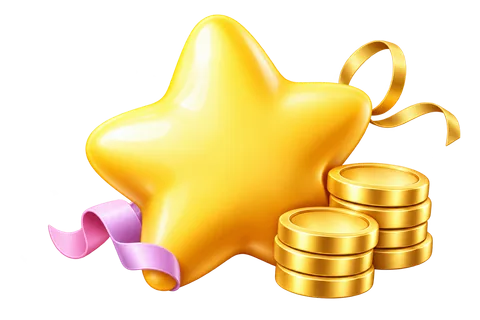
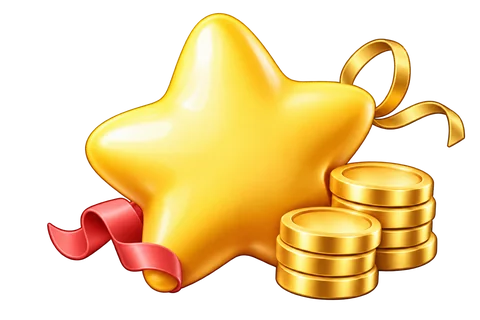
style: use pale red gradient and red reward ribbon

diff --git a/reward-motion-v2/index.html b/reward-motion-v2/index.html
@@ -89,7 +89,7 @@
 .loan-slider{height:16px;position:relative;padding-top:6px}.loan-slider:before{content:'';display:block;height:4px;background:var(--zam-red);border-radius:16px}.loan-slider span{position:absolute;right:0;top:-4px;width:34px;height:24px;border-radius:30px;background:#fff;box-shadow:0 4px 8px #ffe4e4}.loan-slider span:before{content:'';position:absolute;inset:8px 12px;background:repeating-linear-gradient(90deg,var(--zam-red) 0 2px,transparent 2px 4px)}.loan-range{display:flex;justify-content:space-between;margin-top:16px;line-height:18px;font-size:14px;color:var(--zam-muted)}.loan-terms{display:flex;gap:10px;margin-top:24px}.loan-terms>div{flex:1;border:1px solid #c9cdd4;border-radius:2px;text-align:center;font-size:12px;line-height:24px;padding:7px 0;color:var(--zam-muted)}.loan-terms b{font-size:16px}.loan-terms .selected{border-color:var(--zam-red);background:#fdecee;color:var(--zam-red)}
 .loan-divider{height:1px;background:url('assets/cadda.svg') left center/100% 1px no-repeat;margin:23px 0}.loan-breakdown{margin:0;font-size:14px;line-height:18px}.loan-breakdown>div{display:flex;justify-content:space-between;align-items:center;min-height:34px;padding:8px 0;gap:8px}.loan-breakdown dd{margin:0;color:var(--zam-muted);white-space:nowrap}.loan-breakdown b{color:var(--zam-ink)}.mobile-money{display:flex;align-items:center;gap:8px}.mobile-money img{border-radius:3.429px}.applied-coupon{display:flex;align-items:center;justify-content:space-between;padding:8px 16px;font-size:14px;line-height:18px}.applied-coupon[hidden]{display:none}.applied-coupon>span{display:flex;align-items:center;gap:8px}.applied-coupon strong{color:#d35a21}
 .loan-action{padding:16px;background:#fff;border-top:1px solid #f2f3f5;flex-shrink:0}.loan-action>div{padding:12px 10px;border-radius:24px;background:var(--zam-red);color:#fff;font-size:16px;line-height:24px;font-weight:700;text-align:center}.loan-nav{display:flex;background:#fff;border-top:1px solid #f7f8fa;flex-shrink:0}.loan-nav>div{width:25%;height:60px;display:flex;align-items:center;justify-content:center;flex-direction:column;gap:4px;font-size:10px;line-height:14px;color:#86909c}.loan-nav .selected{color:var(--zam-red)}
-.reward-card{left:16px;right:16px;top:292px;min-height:0;padding:76px 16px 24px;border-radius:16px;background:linear-gradient(#ffe6c5 0%,#fff0dc 55%,#fff 100%);box-shadow:none}.reward-card:before{display:none}.reward-card h2{color:var(--zam-ink);font-size:24px;line-height:28px;letter-spacing:-.72px;font-weight:600;margin:0}.benefit-countdown{display:flex;justify-content:center;gap:8px;font-size:12px;line-height:18px;letter-spacing:-.24px;color:var(--zam-muted)}.benefit-countdown b{font-size:14px;letter-spacing:-.42px;color:var(--zam-ink);font-weight:600;margin-right:4px}
+.reward-card{left:16px;right:16px;top:292px;min-height:0;padding:76px 16px 24px;border-radius:16px;background:linear-gradient(#fbdde1 0%,#fff0f2 55%,#fff 100%);box-shadow:none}.reward-card:before{display:none}.reward-card h2{color:var(--zam-ink);font-size:24px;line-height:28px;letter-spacing:-.72px;font-weight:600;margin:0}.benefit-countdown{display:flex;justify-content:center;gap:8px;font-size:12px;line-height:18px;letter-spacing:-.24px;color:var(--zam-muted)}.benefit-countdown b{font-size:14px;letter-spacing:-.42px;color:var(--zam-ink);font-weight:600;margin-right:4px}
 .coupon-ticket{position:relative;display:grid;grid-template-columns:35.37% 1fr;align-items:center;min-height:63px;isolation:isolate;margin-top:20px}.coupon-tag{position:absolute;right:0;top:0;background:var(--zam-red);color:#fff;font-size:10px;line-height:14px;letter-spacing:-.2px;border-radius:0 4px 0 4px;padding:3px 11.5px}.reward-value{color:var(--zam-red);font-size:36px;line-height:44px;letter-spacing:-1.08px;font-weight:600;white-space:nowrap}.coupon-divider{position:absolute;left:35.37%;top:8px;width:0;height:47px}.coupon-divider{border-left:1px dashed var(--zam-red)}.reward-sub{margin:0;padding:13.5px 16px;text-align:left;font-size:14px;line-height:18px;letter-spacing:-.28px;color:var(--zam-ink)}.large-amount .reward-value{font-size:24px;letter-spacing:-1px}
 .claim{position:relative;left:auto;top:auto;display:block;width:100%;margin-top:24px;border:0;border-radius:24px;background:linear-gradient(90deg,#e96c76,#ba1e29);color:#fff;font-size:16px;line-height:20px;font-weight:700;padding:12px 10px;box-shadow:none}.claim:hover{background:linear-gradient(90deg,#e34d59,#a11a24)}.is-playing .claim:disabled{background:linear-gradient(90deg,#e96c76,#ba1e29);color:#fff}
 .welcome-star{width:200px;height:200px;left:calc(50% - 100px);top:270px}.hero{top:205px}.aura{top:164px}.arrival-flash{top:235px}.ring{top:280px}.ring.two{top:256px}.s1{top:274px}.s2{top:295px}.s3{top:228px}.s4{top:237px}.s5{top:354px}.s6{top:352px}.is-used .scene,.is-used .veil{display:none}
@@ -105,7 +105,7 @@
 <main class="layout">
 <section class="intro" aria-label="演示控制"><div class="pills"><span class="pill">WebP + CSS + JavaScript</span></div>
 <div class="controls"><label class="control-label" for="amount">演示优惠券金额</label><div class="input-row"><div class="amount-box"><span class="currency">K</span><input id="amount" type="number" min="1" max="9999" step="1" value="25" inputmode="numeric"></div><button class="replay" id="replay" type="button">↻ 重播动效</button></div><label class="toggle"><input type="checkbox" id="low-motion">低性能模式 · 直接展示奖励</label></div>
-<div class="spec"><div><strong>74.7 KB</strong><small>压缩页面 + 全部素材</small></div><div><strong>2</strong><small>透明 WebP 图片</small></div><div><strong>2.2 s</strong><small>主体入场时长</small></div></div><p class="note">低性能模式直接展示卡片，装饰动画播放后停止。体积按 HTML/SVG gzip + 图片计算；低端设备仍需真机验证。</p></section>
+<div class="spec"><div><strong>76.9 KB</strong><small>压缩页面 + 全部素材</small></div><div><strong>2</strong><small>透明 WebP 图片</small></div><div><strong>2.2 s</strong><small>主体入场时长</small></div></div><p class="note">低性能模式直接展示卡片，装饰动画播放后停止。体积按 HTML/SVG gzip + 图片计算；低端设备仍需真机验证。</p></section>
 <section class="preview" aria-label="手机内奖励效果预览"><div class="device" id="device"><div class="screen is-loading is-used" id="screen">
 <div class="loan-page" id="loan-page" aria-hidden="true" lang="en">
 <div class="zam-statusbar"><img src="assets/bcb84.svg" alt="9:41"><img src="assets/d66f0.svg" alt=""></div>
@@ -122,7 +122,7 @@
 <div class="loan-nav"><div class="selected"><img src="assets/2c933.svg" alt=""><span>Loan</span></div><div><img src="assets/ff119.svg" alt=""><span>Order</span></div><div><img src="assets/fcff8.svg" alt=""><span>Help</span></div><div><img src="assets/a3f34.svg" alt=""><span>Me</span></div></div>
 </div>
 <div class="veil" aria-hidden="true"></div><section class="scene" aria-label="Welcome back!" lang="en"><div class="aura" aria-hidden="true"></div><div class="ring" aria-hidden="true"></div><div class="ring two" aria-hidden="true"></div>
-<div class="welcome-star" aria-hidden="true"><img src="star-v2.webp" width="360" height="360" alt="" decoding="async"><span class="star-sheen"></span></div><div class="arrival-flash" aria-hidden="true"></div><div class="burst-layer" id="burst" aria-hidden="true"></div><div class="reward-reveal"><div class="reward-turn"><div class="hero" aria-hidden="true"><div class="hero-glow"></div><img class="hero-art" src="reward-v2.webp" width="480" height="320" alt="" decoding="async"><svg viewBox="0 0 200 166" xmlns="http://www.w3.org/2000/svg"><defs><linearGradient id="gold" x1=".2" y1="0" x2=".8" y2="1"><stop stop-color="#fffbd0"/><stop offset=".32" stop-color="#ffe58b"/><stop offset=".7" stop-color="#f4b83f"/><stop offset="1" stop-color="#df8e24"/></linearGradient><linearGradient id="edge" x2=".4" y2="1"><stop stop-color="#ffdf78"/><stop offset="1" stop-color="#c98022"/></linearGradient><radialGradient id="shine" cx=".28" cy=".2" r=".8"><stop stop-color="#fff" stop-opacity=".94"/><stop offset=".45" stop-color="#fff8cf" stop-opacity=".2"/><stop offset="1" stop-color="#ffcb53" stop-opacity="0"/></radialGradient><linearGradient id="coin" x2="0" y2="1"><stop stop-color="#ffdd72"/><stop offset=".5" stop-color="#ffc34d"/><stop offset="1" stop-color="#d79225"/></linearGradient><linearGradient id="ribbon" x2="1" y2="1"><stop stop-color="#e4b1e9"/><stop offset="1" stop-color="#aa74c7"/></linearGradient><path id="star" d="M88 24C92 14 101 14 106 25L119 51Q121 56 127 57L156 61C168 62 171 71 162 80L141 101Q137 105 138 111L143 140C145 153 137 157 127 152L101 138Q97 136 92 139L66 152C55 157 48 151 51 139L56 110Q57 105 52 100L31 80C22 72 25 63 38 61L67 57Q73 56 75 51Z"/></defs><ellipse cx="103" cy="148" rx="63" ry="9" fill="#80522b" opacity=".10"/><path d="M28 115q-20-15-9-32 9-12 20 0L28 99l22 8-6 17Z" fill="url(#ribbon)"/><path d="M149 54c31-22 45-5 22 14-12 10-28 10-23 1 5-8 24-9 30-2" fill="none" stroke="#e9bf70" stroke-width="4" stroke-linecap="round"/><use href="#star" fill="url(#edge)" transform="translate(0 5)"/><use href="#star" fill="url(#gold)" stroke="#ffe9a0" stroke-width="1.5"/><use href="#star" fill="url(#shine)"/><path d="M82 48l9-21q5-9 10 0" fill="none" stroke="#fffde2" stroke-width="5" stroke-linecap="round" opacity=".8"/><g class="coin"><path d="M122 136v10c0 11 57 11 57 0v-10" fill="url(#coin)"/><ellipse cx="150.5" cy="136" rx="28.5" ry="8" fill="#ffe793" stroke="#edb347"/><path d="M127 143v6m8-5v7m9-6v7m9-7v7m9-8v7m9-10v7" stroke="#b67920" opacity=".5"/><path d="M126 124v10c0 11 57 11 57 0v-10" fill="url(#coin)"/><ellipse cx="154.5" cy="124" rx="28.5" ry="8" fill="#fff0a7" stroke="#eeb745"/><ellipse cx="154.5" cy="124" rx="21" ry="4.8" fill="none" stroke="#e7b344"/><path d="M130 131v6m8-5v7m9-6v7m9-7v7m9-8v7m9-10v7" stroke="#b67920" opacity=".45"/><path d="M149 122l5-2 5 2-5 3Z" fill="#d9a23a"/></g></svg></div>
+<div class="welcome-star" aria-hidden="true"><img src="star-v2.webp" width="360" height="360" alt="" decoding="async"><span class="star-sheen"></span></div><div class="arrival-flash" aria-hidden="true"></div><div class="burst-layer" id="burst" aria-hidden="true"></div><div class="reward-reveal"><div class="reward-turn"><div class="hero" aria-hidden="true"><div class="hero-glow"></div><img class="hero-art" src="reward-v2.webp" width="480" height="320" alt="" decoding="async"><svg viewBox="0 0 200 166" xmlns="http://www.w3.org/2000/svg"><defs><linearGradient id="gold" x1=".2" y1="0" x2=".8" y2="1"><stop stop-color="#fffbd0"/><stop offset=".32" stop-color="#ffe58b"/><stop offset=".7" stop-color="#f4b83f"/><stop offset="1" stop-color="#df8e24"/></linearGradient><linearGradient id="edge" x2=".4" y2="1"><stop stop-color="#ffdf78"/><stop offset="1" stop-color="#c98022"/></linearGradient><radialGradient id="shine" cx=".28" cy=".2" r=".8"><stop stop-color="#fff" stop-opacity=".94"/><stop offset=".45" stop-color="#fff8cf" stop-opacity=".2"/><stop offset="1" stop-color="#ffcb53" stop-opacity="0"/></radialGradient><linearGradient id="coin" x2="0" y2="1"><stop stop-color="#ffdd72"/><stop offset=".5" stop-color="#ffc34d"/><stop offset="1" stop-color="#d79225"/></linearGradient><linearGradient id="ribbon" x2="1" y2="1"><stop stop-color="#f58a91"/><stop offset="1" stop-color="#c82b3d"/></linearGradient><path id="star" d="M88 24C92 14 101 14 106 25L119 51Q121 56 127 57L156 61C168 62 171 71 162 80L141 101Q137 105 138 111L143 140C145 153 137 157 127 152L101 138Q97 136 92 139L66 152C55 157 48 151 51 139L56 110Q57 105 52 100L31 80C22 72 25 63 38 61L67 57Q73 56 75 51Z"/></defs><ellipse cx="103" cy="148" rx="63" ry="9" fill="#80522b" opacity=".10"/><path d="M28 115q-20-15-9-32 9-12 20 0L28 99l22 8-6 17Z" fill="url(#ribbon)"/><path d="M149 54c31-22 45-5 22 14-12 10-28 10-23 1 5-8 24-9 30-2" fill="none" stroke="#e9bf70" stroke-width="4" stroke-linecap="round"/><use href="#star" fill="url(#edge)" transform="translate(0 5)"/><use href="#star" fill="url(#gold)" stroke="#ffe9a0" stroke-width="1.5"/><use href="#star" fill="url(#shine)"/><path d="M82 48l9-21q5-9 10 0" fill="none" stroke="#fffde2" stroke-width="5" stroke-linecap="round" opacity=".8"/><g class="coin"><path d="M122 136v10c0 11 57 11 57 0v-10" fill="url(#coin)"/><ellipse cx="150.5" cy="136" rx="28.5" ry="8" fill="#ffe793" stroke="#edb347"/><path d="M127 143v6m8-5v7m9-6v7m9-7v7m9-8v7m9-10v7" stroke="#b67920" opacity=".5"/><path d="M126 124v10c0 11 57 11 57 0v-10" fill="url(#coin)"/><ellipse cx="154.5" cy="124" rx="28.5" ry="8" fill="#fff0a7" stroke="#eeb745"/><ellipse cx="154.5" cy="124" rx="21" ry="4.8" fill="none" stroke="#e7b344"/><path d="M130 131v6m8-5v7m9-6v7m9-7v7m9-8v7m9-10v7" stroke="#b67920" opacity=".45"/><path d="M149 122l5-2 5 2-5 3Z" fill="#d9a23a"/></g></svg></div>
 <span class="spark s1" aria-hidden="true">✦</span><span class="spark s2" aria-hidden="true">✦</span><span class="spark s3" aria-hidden="true">✧</span><span class="spark s4" aria-hidden="true">✦</span><span class="spark s5" aria-hidden="true">✦</span><span class="spark s6" aria-hidden="true">✧</span>
 <div class="reward-card"><h2>Welcome back!</h2><time class="benefit-countdown" id="coupon-countdown" role="timer" aria-label="Time left to apply"><span><b id="coupon-days">00</b>d</span> <span><b id="coupon-hours">00</b>h</span> <span><b id="coupon-minutes">00</b>m</span> <span><b id="coupon-seconds">00</b>s</span></time>
 <div class="coupon-ticket"><svg class="coupon-outline" viewBox="-0.5 -0.5 312 64" preserveAspectRatio="none" aria-hidden="true" xmlns="http://www.w3.org/2000/svg"><path d="M105.119 0C105.119 0.525127 105.25 1.0451 105.504 1.53027C105.758 2.01558 106.131 2.45669 106.601 2.82812C107.07 3.19955 107.628 3.4943 108.241 3.69531C108.855 3.89625 109.512 3.99997 110.176 4C110.84 4 111.498 3.89633 112.111 3.69531C112.725 3.49429 113.282 3.19954 113.752 2.82812C114.221 2.45672 114.594 2.01551 114.848 1.53027C115.102 1.04503 115.233 0.525217 115.233 0H304.471C308.077 0 311 2.40777 311 5.37793V57.6221C311 60.5922 308.077 63 304.471 63H115.045C115.045 62.4749 114.914 61.9549 114.66 61.4697C114.406 60.9845 114.033 60.5433 113.563 60.1719C113.094 59.8004 112.536 59.5057 111.923 59.3047C111.309 59.1037 110.652 59 109.988 59C109.324 59 108.666 59.1037 108.053 59.3047C107.439 59.5057 106.882 59.8004 106.412 60.1719C105.943 60.5433 105.57 60.9845 105.315 61.4697C105.061 61.9549 104.931 62.4749 104.931 63H6.5293C2.92333 63 8.00943e-05 60.5922 0 57.6221V5.37793C7.69658e-05 2.40777 2.92333 0 6.5293 0H105.119Z" fill="#FDF3F4" stroke="#E34D59" stroke-width="1" vector-effect="non-scaling-stroke"/></svg><span class="coupon-tag">Repayment discount</span><div class="reward-value"><span>K</span><span id="reward-amount">25</span></div><span class="coupon-divider" aria-hidden="true"></span><p class="reward-sub" id="reward-sub">Pay on time<br>and reduce your loan cost</p></div>

diff --git a/handoff/package.py b/handoff/package.py
@@ -10,7 +10,7 @@ ROOT = Path(__file__).resolve().parents[1]
 SOURCE = ROOT / 'reward-motion-v2'
 OUTPUT = ROOT / 'output' / 'zamcash-reward-final.zip'
 PREFIX = 'zamcash-reward-final/'
-VERSION = 'final-2026-10-16-countdown-tiles'
+VERSION = 'final-2026-10-16-red-ribbon'
 
 
 def sha(data):
@@ -38,6 +38,7 @@ def main():
         'README.md': ROOT / 'handoff/README.md',
         'docs/FRONTEND-INTEGRATION.md': ROOT / 'handoff/FRONTEND-INTEGRATION.md',
         'docs/ZEPTO-SUI-INTEGRATION.md': ROOT / 'handoff/ZEPTO-SUI-INTEGRATION.md',
+        'docs/ASSET-CHANGES.md': ROOT / 'handoff/ASSET-CHANGES.md',
         'references/original-README.txt': SOURCE / 'README.txt',
         'references/asset-prompts.txt': SOURCE / 'asset-prompts.txt',
         'references/FIGMA-SOURCE.txt': SOURCE / 'FIGMA-SOURCE.txt',

diff --git a/handoff/README.md b/handoff/README.md
@@ -1,7 +1,7 @@
 # ZamCash 奖励动效 · 前端交付
 
 最终规格：**卡片绕竖直中轴（Y 轴）左右翻转 1 圈，累计 360°。**
-版本：`final-2026-10-16-countdown-tiles`。标题下方倒计时采用 24px 数字、白色圆角底块与 d/h/m/s 简写，每秒更新；保留券角标、移动端线条修复和一圈动效。
+版本：`final-2026-10-16-red-ribbon`。标题下方倒计时采用 24px 数字、白色圆角底块与 d/h/m/s 简写，每秒更新；保留券角标、移动端线条修复和一圈动效。
 
 ## 快速查看
 
@@ -20,10 +20,11 @@ python3 -m http.server 8765
 | --- | --- |
 | `demo/index.html` | 已确认的完整演示，内含 CSS、JavaScript 与 SVG 兜底 |
 | `demo/star-v2.webp` | 开场大星星及爆散小金星共用素材 |
-| `demo/reward-v2.webp` | 卡片顶部星星、金币、丝带素材 |
+| `demo/reward-v2.webp` | 卡片顶部星星、金币、红色飘带素材 |
 | `demo/assets/` | 15 个 SVG、1 个 PNG，来自项目设计稿 |
 | `docs/FRONTEND-INTEGRATION.md` | 接入、精确时间线、缓动参数、状态与降级方式 |
 | `docs/ZEPTO-SUI-INTEGRATION.md` | 现有框架适配清单、后端字段契约、Zepto 请求示例及联调边界 |
+| `docs/ASSET-CHANGES.md` | 红色飘带素材的编辑方式、提示词与压缩规格 |
 | `asset-manifest.json` | 文件 SHA-256、原始大小、gzip 估算、源码提交号 |
 | `SHA256SUMS.txt` | 包内文件校验表，可执行 `shasum -a 256 -c SHA256SUMS.txt` |
 | `references/` | 原始 README、素材提示词和 Figma 来源；原始 README 的旧文案/体积不是当前规格 |
@@ -33,7 +34,7 @@ python3 -m http.server 8765
 - 18 个爆散粒子：14 颗金星 + 4 个微光点，保留金色拖尾。
 - 卡片 1 圈翻转：0.6–1.8 秒；连续放大：0.6–2.0 秒；2.2 秒后按钮可用。
 - 右侧文案恢复为 Pay on time / and reduce your loan cost；券高保持紧凑，申请倒计时位于标题下方，黑字、数字加粗，显示 d/h/m/s 四段倒计时；券角标为 Repayment discount；金额动态绑定，保留配色和素材。模拟默认 K25，真实接入读取后端字段。
-- 运行资源约 **74.7 KB**，准确字节数见清单。口径为 HTML/SVG gzip level 6 + PNG/WebP 原始字节，不含 HTTP 头、文档和 ZIP 容器开销。
+- 运行资源约 **76.9 KB**，准确字节数见清单。口径为 HTML/SVG gzip level 6 + PNG/WebP 原始字节，不含 HTTP 头、文档和 ZIP 容器开销。
 - 线上要为 HTML/SVG 启用 gzip。上述 Python 预览服务器不会自动启用 gzip。
 
 ## 交付边界

diff --git a/handoff/FRONTEND-INTEGRATION.md b/handoff/FRONTEND-INTEGRATION.md
@@ -1,6 +1,6 @@
 # 前端接入说明 · 一圈最终版
 
-版本：`final-2026-10-16-countdown-tiles`，2026-10-16。本次缩小倒计时数字并增加白色圆角底块，稍加深卡片渐变；保留秒级倒计时与一圈动效。
+版本：`final-2026-10-16-red-ribbon`，2026-10-16。本次将卡片改为浅红到白渐变，并使用红色飘带奖励图；保留秒级倒计时与一圈动效。
 运行源码为 `demo/index.html`。所有时间单位为毫秒，角度单位为度。
 
 现有项目请先看 [Zepto + SUI Mobile 接入清单](ZEPTO-SUI-INTEGRATION.md)：已确认框架、前端适配项、后端字段契约、请求包装示例和待联调范围分别列明。当前完整演示仍需拆分适配，不是直接引入即可替换业务页面的 SDK。
@@ -9,10 +9,10 @@
 
 - 卡片与顶部星星/金币整体绕 **Y 轴翻转 1 圈（360°）**；旋转角度从 -360 到 0，没有额外圈数。
 - 18 个爆散粒子（14 金星 + 4 微光），复用开场 WebP；粒子仅创建一次，重播不追加节点。
-- 保留两张原始透明 WebP、ZamCash 红色 `#E34D59`、已确认文案和布局。不引入动画库或外部字体。
+- 保留开场透明 WebP，顶部奖励图使用红色飘带版本；保留 ZamCash 红色 `#E34D59`、已确认文案和布局。不引入动画库或外部字体。
 - 标题 `Welcome back!`，下方仅保留倒计时；面额 `K{amount}` 动态更新；说明恢复为 `Pay on time` / `and reduce your loan cost`（保留显式换行）；按钮 `Apply now`。
 - 倒计时位于标题下方（间距 12px），显示 `05d 23h 59m 59s`，每秒更新；黑色 `#1d2129`，数字 24px / `font-weight:700`，单位 13px，四段间距 8px；每组两位数字使用白色圆角底块（圆角 6px，最小宽度 34px，padding 3px 4px）；优惠券右上角恢复 `Repayment discount`。券最小高度 76px，说明 padding 为 24px 10px 10px；窄屏自然换行允许高度增加。
-- 卡片背景为 `linear-gradient(#ffe6c5 0%,#fff0dc 55%,#fff 100%)`，暖色渐变加深以衬托白色数字底块。
+- 卡片背景为 `linear-gradient(#fbdde1 0%,#fff0f2 55%,#fff 100%)`，浅红到白的渐变衬托白色数字底块。
 - 业务含义：发券后 6 个自然日内申请该笔借款，还款时抵扣。倒计时不是还款截止时间；展示文案按最新确认恢复为 `Pay on time…`，前端不新增还款业务校验规则。
 - 包内 `asset-manifest.json` 给出精确体积与哈希。80,000 字节预算只计算运行资源，不把说明文件和校验清单发送给页面。
 

diff --git a/handoff/ZEPTO-SUI-INTEGRATION.md b/handoff/ZEPTO-SUI-INTEGRATION.md
@@ -1,6 +1,6 @@
 # Zepto + SUI Mobile 项目接入清单
 
-交付版本：`final-2026-10-16-countdown-tiles`。保留 Y 轴 1 圈（360°）动效；倒计时移回标题下方，券线框采用内联 SVG，分隔虚线采用 CSS 边框。
+交付版本：`final-2026-10-16-red-ribbon`。保留 Y 轴 1 圈（360°）动效；倒计时移回标题下方，券线框采用内联 SVG，分隔虚线采用 CSS 边框。
 精确时间线、缓动和完整 API 见 [FRONTEND-INTEGRATION.md](FRONTEND-INTEGRATION.md)。
 
 ## 1. 已确认与待联调范围
@@ -33,7 +33,7 @@
 | 申请按钮 | `onApply` 返回覆盖真实异步流程的 Promise；传入券 ID；成功交接到申请流程后 resolve，失败 reject | 连点仅一笔请求；失败可恢复按钮；点击不代表已绑定或已抵扣 |
 | 错误提示 | 使用现有项目提示组件处理 `couponapplyerror`，只展示安全的业务提示 | 不向用户直接输出请求对象、堆栈；登录失效走宿主登录流程 |
 | 生命周期 | 页面卸载时清理；返回页面 / 长时间后台恢复后重新取得券状态和服务端时间 | 防止旧响应重开券、重复监听和计时；`destroy()` 后不能复用同一实例，需重新初始化组件 |
-| 发布 | 更新 img、preload、CSS mask/background 的资源路径；HTML/SVG 开 gzip | 合并后重新测量实际发送资源；参考演示总量 74,725 字节，低于 80,000 字节 |
+| 发布 | 更新 img、preload、CSS mask/background 的资源路径；HTML/SVG 开 gzip | 合并后重新测量实际发送资源；参考演示总量 76,914 字节，低于 80,000 字节 |
 
 当前脚本 IIFE 内的 `$` 只是本地 `getElementById` 帮助函数，不覆盖 `window.$`。拆分时保持作用域，避免与 Zepto 混用。当前项目按整页加载接入即可；若后续启用 SUI 路由，应接到项目的页面挂载/卸载事件，不能只依赖首次 `DOMContentLoaded`。
 

diff --git a/handoff/ASSET-CHANGES.md b/handoff/ASSET-CHANGES.md
@@ -1,0 +1,11 @@
+# 红色飘带素材说明
+
+2026-10-16 按用户要求，将顶部奖励图左下角飘带由紫粉色改为红色。使用内置 `image_gen` 图像编辑工具，以原 `reward-v2.webp` 为编辑输入；生成透明 PNG 后仅做尺寸缩放与 WebP 编码。最终文件为仓库 `reward-motion-v2/reward-v2.webp`（交付包 `demo/reward-v2.webp`），480 × 320px，quality 85，25,356 字节。原图可从 Git 提交 `81a283a` 或原始 ZIP 取回。
+
+卡片背景用 CSS 改为浅红到白；内联 SVG 降级图中的飘带渐变同步为 `#f58a91` → `#c82b3d`。开场 `star-v2.webp` 未修改。
+
+## 图像编辑提示词
+
+```text
+Use case: precise-object-edit. Edit the provided transparent UI reward illustration. Change ONLY the pink-purple ribbon in the LOWER LEFT of the gold star to a rich warm red matching #E34D59 with red shadow folds and pale red/specular highlights. Preserve its exact shape, folds, position and metallic satin shading. Keep the gold star, gold coin stacks, upper-right gold ribbon, every other color, lighting, silhouette, layout, scale and 3:2 framing exactly unchanged. Do not redraw or add anything. Preserve the transparent background and clean alpha edges; do not add a background, ground plane, shadow, text or padding. Output the same entire illustration with only the lower-left ribbon recolored red.
+```

diff --git a/README.md b/README.md
@@ -40,4 +40,4 @@ python3 -m http.server 8765 --bind 127.0.0.1
 python3 handoff/package.py
 ```
 
-生成 `output/zamcash-reward-final.zip`，包含演示源码、素材、接入说明和 SHA-256 校验清单。脚本校验运行资源不超过 80,000 字节；当前约 74.7 KB，按 HTML/SVG gzip level 6 + PNG/WebP 原始大小计算，不含文档和 ZIP 开销。本地 Python 服务器不会自动开启 gzip，线上需单独配置。
+生成 `output/zamcash-reward-final.zip`，包含演示源码、素材、接入说明和 SHA-256 校验清单。脚本校验运行资源不超过 80,000 字节；当前约 76.9 KB，按 HTML/SVG gzip level 6 + PNG/WebP 原始大小计算，不含文档和 ZIP 开销。本地 Python 服务器不会自动开启 gzip，线上需单独配置。
